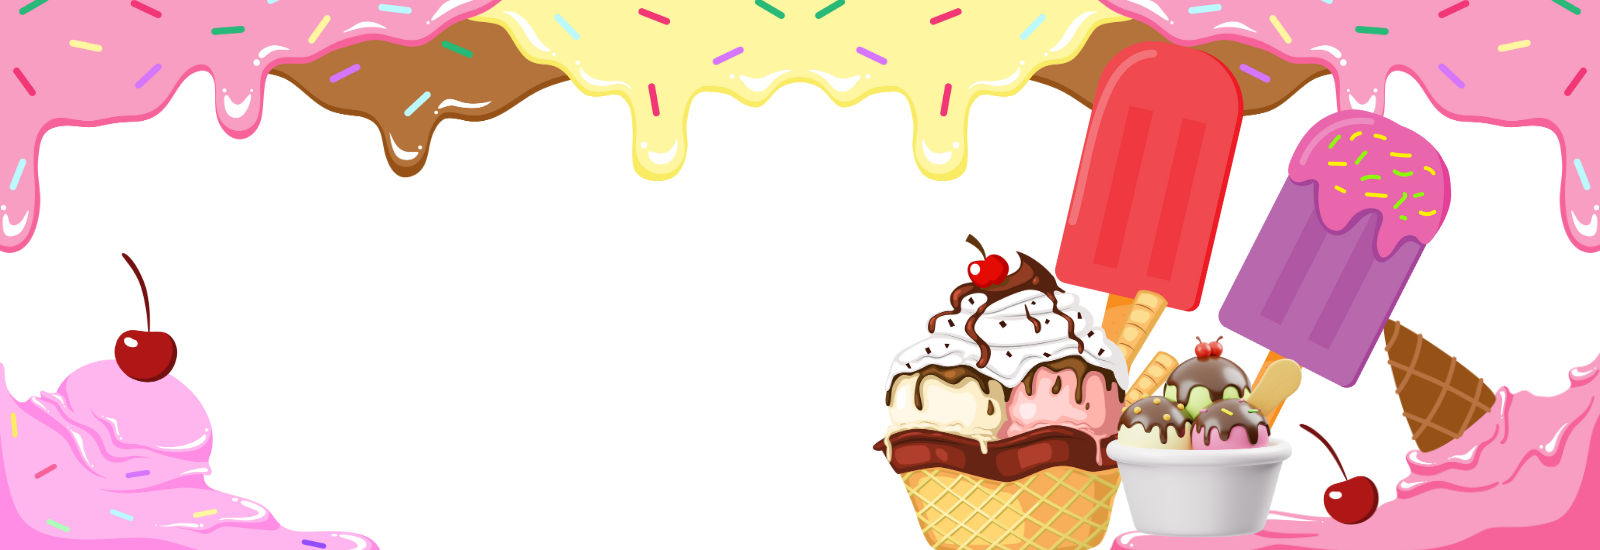
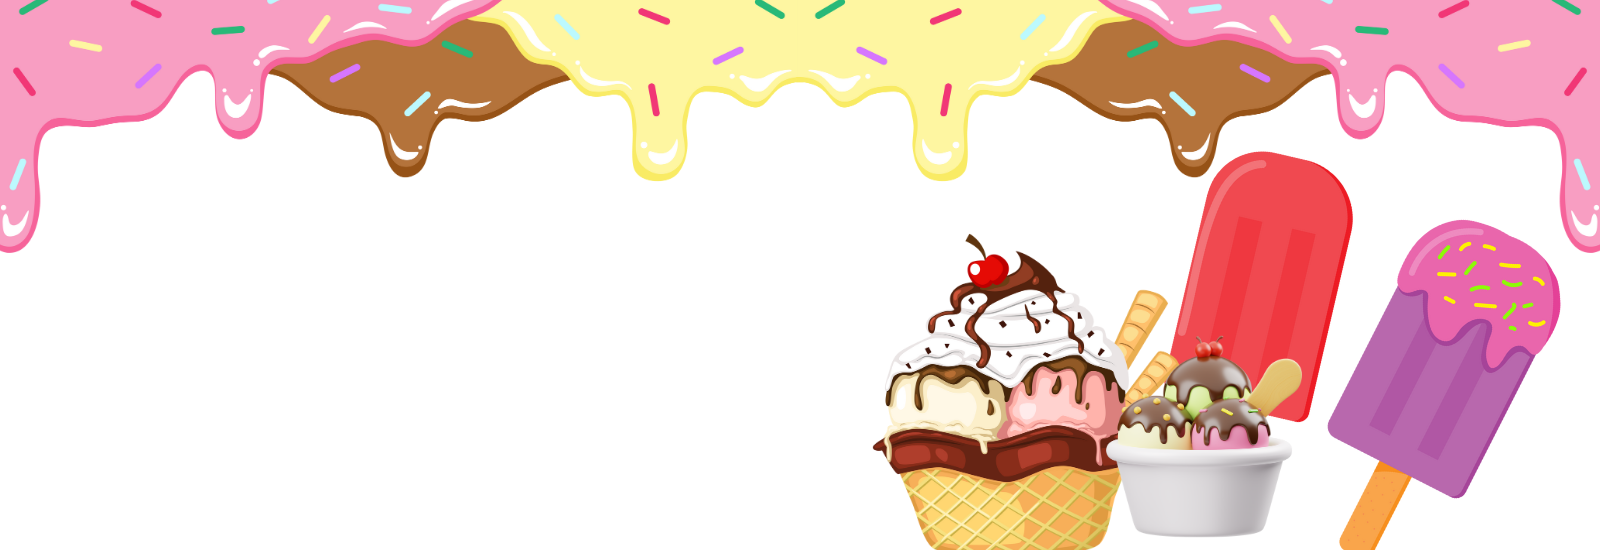
Actualizacion

Changed region(s): [[0.6562, 0.0618, 1.0, 1.0], [0.0, 0.5873, 0.25, 1.0], [0.0625, 0.4636, 0.0938, 0.5564]]

diff --git a/index.html b/index.html
@@ -141,7 +141,8 @@
 
       <!--------GET CODE ONDAS-------------->
       <div class="cont_ondas">
-        <svg xmlns="http://www.w3.org/2000/svg" viewBox="0 0 1440 320"><path fill="rgb(255, 165, 180)" fill-opacity="1" d="M0,320L6.2,320C12.3,320,25,320,37,309.3C49.2,299,62,277,74,245.3C86.2,213,98,171,111,138.7C123.1,107,135,85,148,80C160,75,172,85,185,96C196.9,107,209,117,222,133.3C233.8,149,246,171,258,165.3C270.8,160,283,128,295,101.3C307.7,75,320,53,332,90.7C344.6,128,357,224,369,245.3C381.5,267,394,213,406,186.7C418.5,160,431,160,443,181.3C455.4,203,468,245,480,234.7C492.3,224,505,160,517,144C529.2,128,542,160,554,149.3C566.2,139,578,85,591,106.7C603.1,128,615,224,628,245.3C640,267,652,213,665,181.3C676.9,149,689,139,702,154.7C713.8,171,726,213,738,224C750.8,235,763,213,775,224C787.7,235,800,277,812,293.3C824.6,309,837,299,849,298.7C861.5,299,874,309,886,266.7C898.5,224,911,128,923,90.7C935.4,53,948,75,960,106.7C972.3,139,985,181,997,181.3C1009.2,181,1022,139,1034,144C1046.2,149,1058,203,1071,208C1083.1,213,1095,171,1108,154.7C1120,139,1132,149,1145,154.7C1156.9,160,1169,160,1182,170.7C1193.8,181,1206,203,1218,224C1230.8,245,1243,267,1255,256C1267.7,245,1280,203,1292,186.7C1304.6,171,1317,181,1329,208C1341.5,235,1354,277,1366,298.7C1378.5,320,1391,320,1403,266.7C1415.4,213,1428,107,1434,53.3L1440,0L1440,0L1433.8,0C1427.7,0,1415,0,1403,0C1390.8,0,1378,0,1366,0C1353.8,0,1342,0,1329,0C1316.9,0,1305,0,1292,0C1280,0,1268,0,1255,0C1243.1,0,1231,0,1218,0C1206.2,0,1194,0,1182,0C1169.2,0,1157,0,1145,0C1132.3,0,1120,0,1108,0C1095.4,0,1083,0,1071,0C1058.5,0,1046,0,1034,0C1021.5,0,1009,0,997,0C984.6,0,972,0,960,0C947.7,0,935,0,923,0C910.8,0,898,0,886,0C873.8,0,862,0,849,0C836.9,0,825,0,812,0C800,0,788,0,775,0C763.1,0,751,0,738,0C726.2,0,714,0,702,0C689.2,0,677,0,665,0C652.3,0,640,0,628,0C615.4,0,603,0,591,0C578.5,0,566,0,554,0C541.5,0,529,0,517,0C504.6,0,492,0,480,0C467.7,0,455,0,443,0C430.8,0,418,0,406,0C393.8,0,382,0,369,0C356.9,0,345,0,332,0C320,0,308,0,295,0C283.1,0,271,0,258,0C246.2,0,234,0,222,0C209.2,0,197,0,185,0C172.3,0,160,0,148,0C135.4,0,123,0,111,0C98.5,0,86,0,74,0C61.5,0,49,0,37,0C24.6,0,12,0,6,0L0,0Z"></path></svg>
+        <svg xmlns="http://www.w3.org/2000/svg" viewBox="0 0 1440 320"><path fill="#ffff" fill-opacity="1" d="M0,288L8.3,288C16.6,288,33,288,50,266.7C66.2,245,83,203,99,197.3C115.9,192,132,224,149,202.7C165.5,181,182,107,199,80C215.2,53,232,75,248,85.3C264.8,96,281,96,298,117.3C314.5,139,331,181,348,192C364.1,203,381,181,397,154.7C413.8,128,430,96,447,80C463.4,64,480,64,497,69.3C513.1,75,530,85,546,128C562.8,171,579,245,596,250.7C612.4,256,629,192,646,170.7C662.1,149,679,171,695,197.3C711.7,224,728,256,745,266.7C761.4,277,778,267,794,234.7C811,203,828,149,844,117.3C860.7,85,877,75,894,101.3C910.3,128,927,192,943,202.7C960,213,977,171,993,138.7C1009.7,107,1026,85,1043,96C1059.3,107,1076,149,1092,144C1109,139,1126,85,1142,64C1158.6,43,1175,53,1192,74.7C1208.3,96,1225,128,1241,170.7C1257.9,213,1274,267,1291,266.7C1307.6,267,1324,213,1341,192C1357.2,171,1374,181,1390,176C1406.9,171,1423,149,1432,138.7L1440,128L1440,0L1431.7,0C1423.4,0,1407,0,1390,0C1373.8,0,1357,0,1341,0C1324.1,0,1308,0,1291,0C1274.5,0,1258,0,1241,0C1224.8,0,1208,0,1192,0C1175.2,0,1159,0,1142,0C1125.5,0,1109,0,1092,0C1075.9,0,1059,0,1043,0C1026.2,0,1010,0,993,0C976.6,0,960,0,943,0C926.9,0,910,0,894,0C877.2,0,861,0,844,0C827.6,0,811,0,794,0C777.9,0,761,0,745,0C728.3,0,712,0,695,0C678.6,0,662,0,646,0C629,0,612,0,596,0C579.3,0,563,0,546,0C529.7,0,513,0,497,0C480,0,463,0,447,0C430.3,0,414,0,397,0C380.7,0,364,0,348,0C331,0,314,0,298,0C281.4,0,265,0,248,0C231.7,0,215,0,199,0C182.1,0,166,0,149,0C132.4,0,116,0,99,0C82.8,0,66,0,50,0C33.1,0,17,0,8,0L0,0Z"></path></svg>
+       
       </div>
     </div>
 

diff --git a/css/main.css b/css/main.css
@@ -203,7 +203,7 @@
   width: 100%;
   max-width: 1600px;
   margin: auto;
-  background: rgb(255, 255, 255);
+  background: rgb(61, 255, 70);
   display: grid;
   grid-template-columns: repeat(3, 1fr);
   grid-template-rows: auto auto auto;
@@ -266,6 +266,7 @@
   width: 100%;
   height: 170px;
   background: rgb(255, 165, 180);
+  box-shadow: 0px 5px 10px rgb(133, 39, 109);
   padding: 5px 0px;
   display: flex;
   justify-content: space-between;
@@ -828,14 +829,14 @@
 .cont_sectionCards {
   width: 100%;
   padding: 100px 0px;
-  background: white;
+  background: #FDC5C5;
 }
 .cont_sectionCards .cont_sectionCards_h2 {
   width: 80%;
   margin: auto;
   text-align: center;
-  color: rgb(255, 165, 180);
-  -webkit-text-stroke: 3px black; /* grosor y color del borde */
+  color: #ffffff;
+  -webkit-text-stroke: 2px black; /* grosor y color del borde */
   font-family: curvita_bold;
   font-size: 110px;
 }
@@ -845,6 +846,7 @@
   margin: auto;
   margin-top: 50px;
   font-size: 22px;
+  color: #2d2c2c;
 }
 .cont_sectionCards .cont_sectionCards_block {
   margin: auto;
@@ -852,7 +854,6 @@
   width: 80%;
   border-radius: 20px;
   padding: 10px 80px;
-  background: rgba(255, 255, 252, 0.995);
   display: flex;
   flex-direction: row;
   flex-wrap: wrap;

diff --git a/scss/Page_principal/_cont_section.scss b/scss/Page_principal/_cont_section.scss
@@ -5,13 +5,13 @@
 .cont_sectionCards{
     width: 100%;
     padding: 100px 0px;
-    background: white;
+    background: variables.$color_rosa_pastel;
     .cont_sectionCards_h2{
         width: 80%;
         margin: auto;
         text-align: center;
-        color: variables.$color_rosa;
-        -webkit-text-stroke: 3px black; /* grosor y color del borde */
+        color: variables.$color_blanco;
+        -webkit-text-stroke: 2px black; /* grosor y color del borde */
         font-family: curvita_bold;
         font-size: 110px;
     }
@@ -22,6 +22,8 @@
         margin: auto;
         margin-top: 50px;
         font-size: 22px;
+        color: variables.$color_black_claro;
+
     }
 
     .cont_sectionCards_block{
@@ -30,7 +32,6 @@
         width: 80%;
         border-radius: 20px;
         padding: 10px 80px;
-        background: rgba(255, 255, 252, 0.995);
         display: flex;
         flex-direction: row;
         flex-wrap: wrap;

diff --git a/scss/Page_principal/_grilla.scss b/scss/Page_principal/_grilla.scss
@@ -6,7 +6,7 @@
     max-width: 1600px;
     //padding: 10px 0px;
     margin: auto;
-    background: rgb(255, 255, 255);
+    background: rgb(61, 255, 70);
     display: grid;
     //gap:30px;
     grid-template-columns: repeat(3, 1fr);

diff --git a/scss/Page_principal/_cont_header.scss b/scss/Page_principal/_cont_header.scss
@@ -7,6 +7,7 @@
     height: 170px;
     //max-width: 1600px;
     background: variables.$color_rosa;
+    box-shadow: 0px 5px 10px rgb(133, 39, 109);
     padding: 5px 0px;
     display: flex;
     justify-content: space-between;
